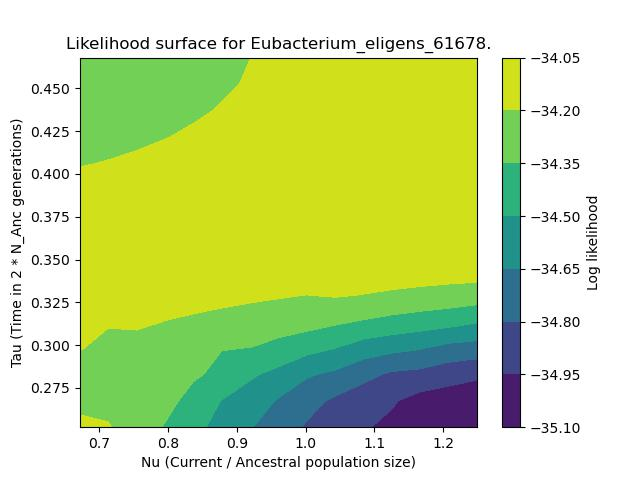
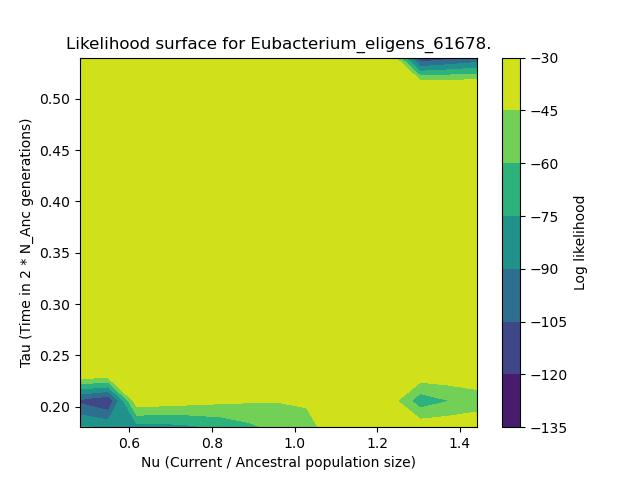
E. eligens

diff --git a/Scripts/plot_likelihood.py b/Scripts/plot_likelihood.py
@@ -471,8 +471,8 @@ class PlotLikelihood():
                 # y_range = numpy.linspace(y  * 0.9, y * 1.3, npts)
 
                 # E. eligens
-                x_range = numpy.linspace(x * 0.7, x * 1.3, npts)
-                y_range = numpy.linspace(y * 0.7, y * 1.3, npts)
+                x_range = numpy.linspace(x * 0.5, x * 1.5, npts)
+                y_range = numpy.linspace(y * 0.5, y * 1.5, npts)
                 
 
                 X, Y = numpy.meshgrid(x_range, y_range)
